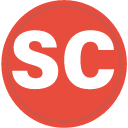
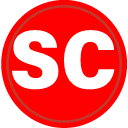
Изменены цвета, стили и сайт

diff --git a/popup/popup.css b/popup/popup.css
@@ -55,7 +55,7 @@ body {
     align-items: center;
     justify-content: space-between;
     padding: 12px 16px;
-    background: #f5f5f5;
+    background: #4555e8;
     border-bottom: 1px solid rgba(0, 0, 0, 0.08);
 }
 
@@ -72,7 +72,7 @@ body {
 .logo-text {
     font-size: 15px;
     font-weight: 600;
-    color: #242424;
+    color: #fff;
 }
 
 .header-actions {
@@ -84,7 +84,7 @@ body {
 .user-name {
     font-size: 12px;
     font-weight: 700;
-    color: #5b6cf7;
+    color: #fff;
     text-decoration: none;
     max-width: 120px;
     overflow: hidden;
@@ -94,12 +94,12 @@ body {
 }
 
 a.user-name:hover {
-    color: #4555e8;
+    color: rgba(255, 255, 255, 0.8);
     text-decoration: none;
 }
 
 a.user-name:focus-visible {
-    outline: 2px solid #5b6cf7;
+    outline: 2px solid #fff;
     outline-offset: 2px;
     border-radius: 2px;
 }
@@ -114,7 +114,7 @@ a.user-name:focus-visible {
     justify-content: center;
     background: none;
     border: none;
-    color: #909090;
+    color: rgba(255, 255, 255, 0.85);
     font-size: 18px;
     cursor: pointer;
     border-radius: 6px;
@@ -124,8 +124,8 @@ a.user-name:focus-visible {
 }
 
 .btn-refresh:hover {
-    background: rgba(0, 0, 0, 0.06);
-    color: #242424;
+    background: rgba(255, 255, 255, 0.15);
+    color: #fff;
 }
 
 .btn-refresh:active {

diff --git a/offscreen/offscreen.js b/offscreen/offscreen.js
@@ -18,8 +18,8 @@
 
 // Allowlist хостов для fetch. Подгружается из config.js в SW и передаётся в URL;
 // здесь сверяем хост, потому что offscreen.html не подключает config.js.
-const ALLOWED_HOST_SUFFIX = '.autmatization-bot.ru';
-const ALLOWED_HOSTS_EXACT = ['mybestestsite.autmatization-bot.ru'];
+const ALLOWED_HOST_SUFFIX = '.savelloclub.ru';
+const ALLOWED_HOSTS_EXACT = ['savelloclub.ru'];
 
 function isAllowedUrl(rawUrl) {
     try {

diff --git a/utils/config.js b/utils/config.js
@@ -10,7 +10,7 @@
 const CASHBACK_CONFIG = {
   // URL WordPress-сайта (без trailing slash)
   // ПРОДАКШЕН: заменить на https://your-domain.com
-  SITE_URL: 'https://mybestestsite.autmatization-bot.ru',
+  SITE_URL: 'https://savelloclub.ru',
 
   // Базовый URL REST API
   get API_BASE() {
